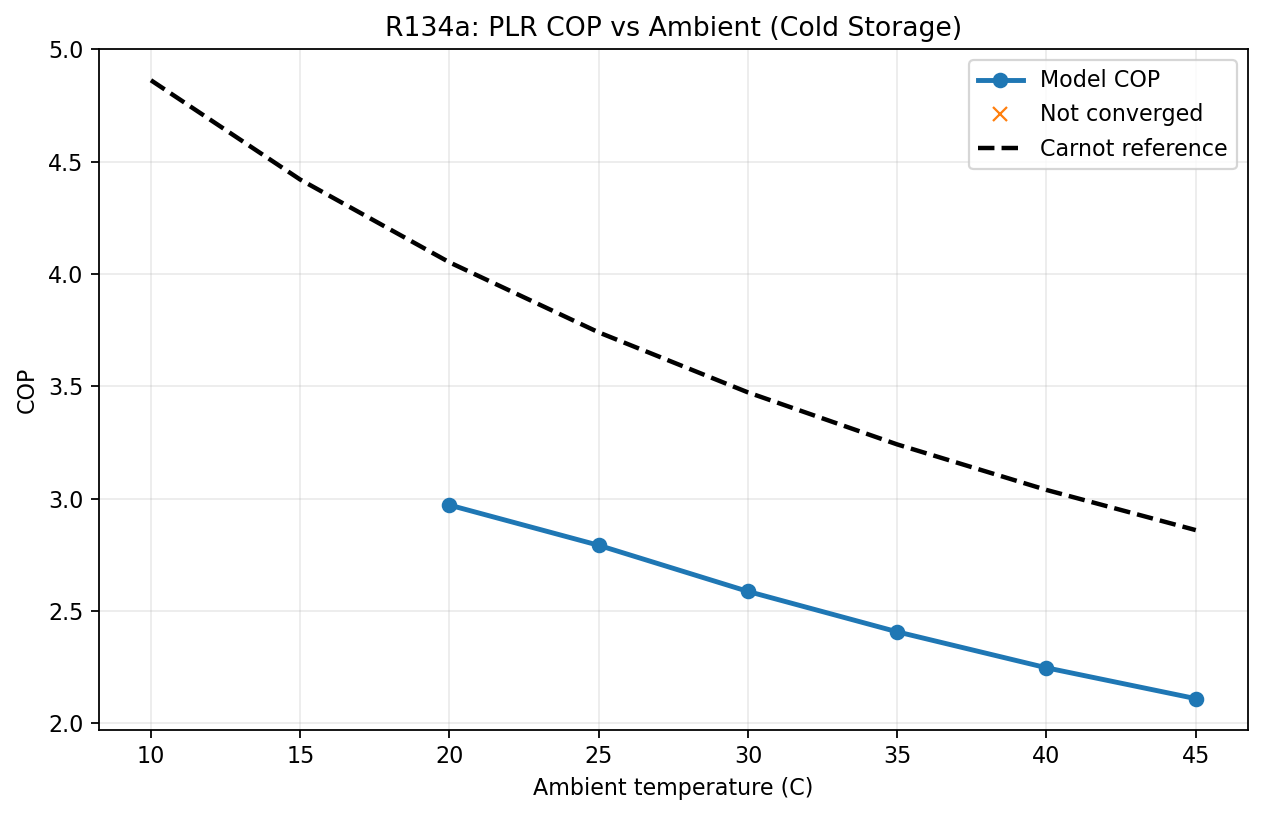
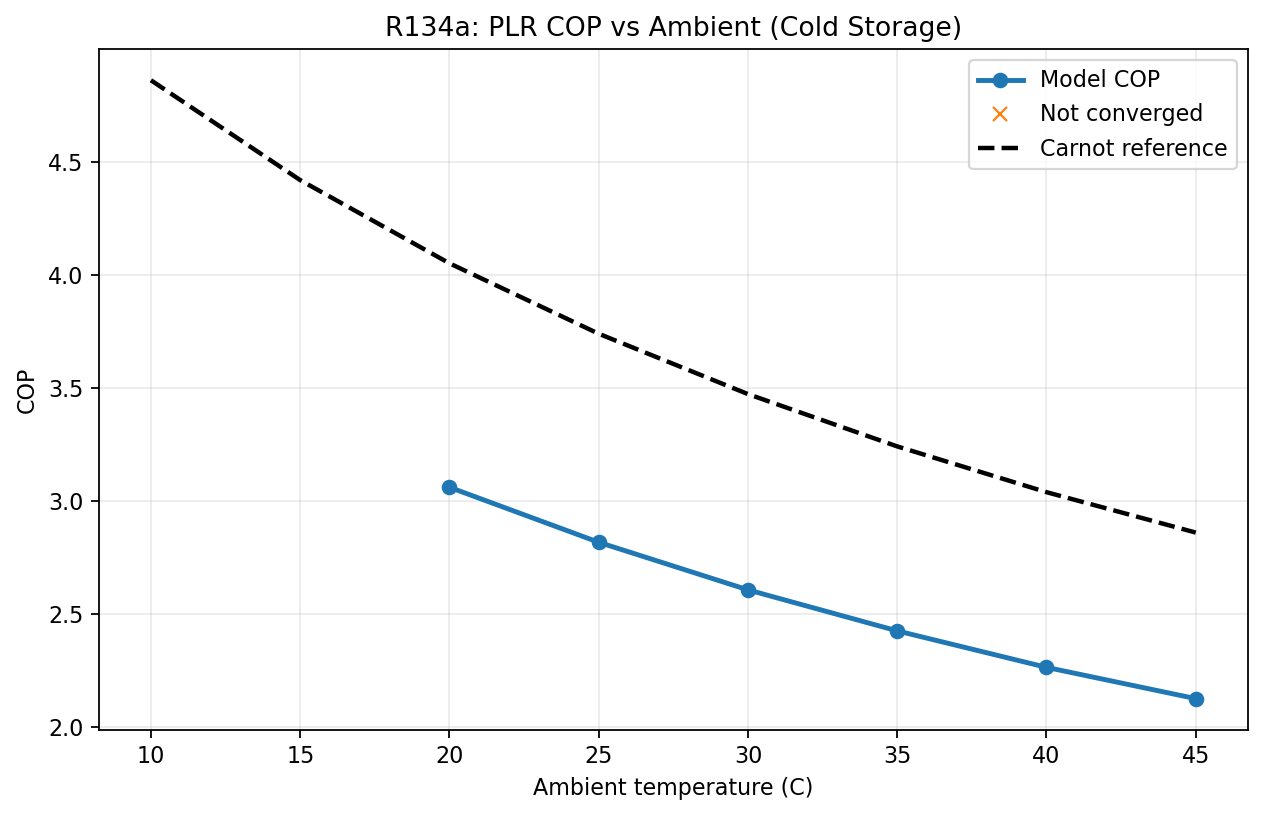
Fixed PLR method, added soft constraints for approach temperatures. Checkpoint. Debugging for infeasibility

diff --git a/run_plr_cold_storage_r1234zee_copy.py b/run_plr_cold_storage_r1234zee_copy.py
@@ -58,7 +58,7 @@ def main():
         high_side_pressure=high_side_bounds,
         evaporator_temperature=(-45, -15),
         condenser_temperature=(15, 50),
-        subcooling=3,
+        subcooling=5,
         superheating=3,
         max_pressure_ratio=20,
         plr=0.75,

diff --git a/run_plr_cold_storage_r134a_copy.py b/run_plr_cold_storage_r134a_copy.py
@@ -34,7 +34,7 @@ def main():
         high_side_pressure=high_side_bounds,
         evaporator_temperature=(-45, -15),
         condenser_temperature=(15, 50),
-        subcooling=3,
+        subcooling=5,
         superheating=3,
         max_pressure_ratio=20,
         plr=0.75,

diff --git a/vapor_compression_plr.py b/vapor_compression_plr.py
@@ -2,7 +2,7 @@
 IDAES Vapor Compression Cycle with PLR and Soft-Approach Constraints
 
 Author: Shilpa Narasimhan
-Codex Support: OpenAI Codex (CASE)
+Codex Support: OpenAI Codex 
 QA/Testing: Shilpa Narasimhan
 
 Description:
